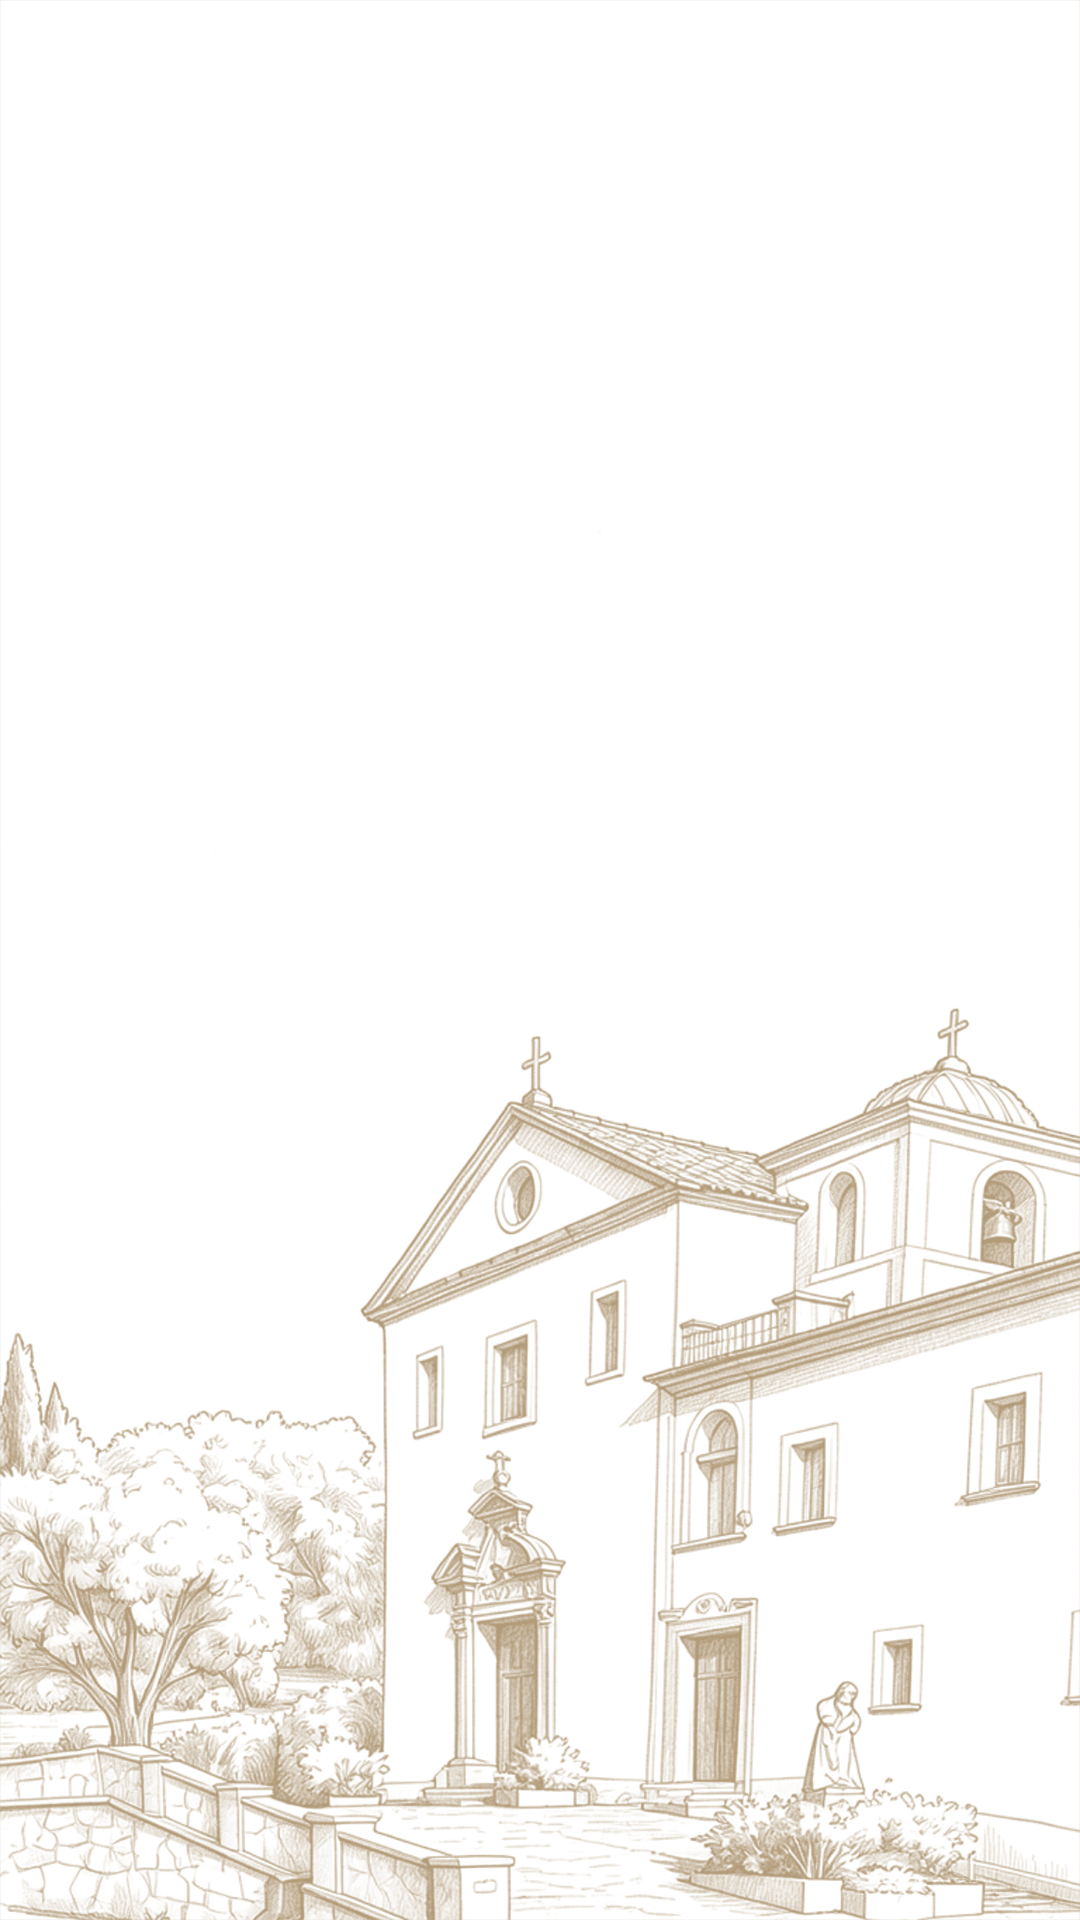
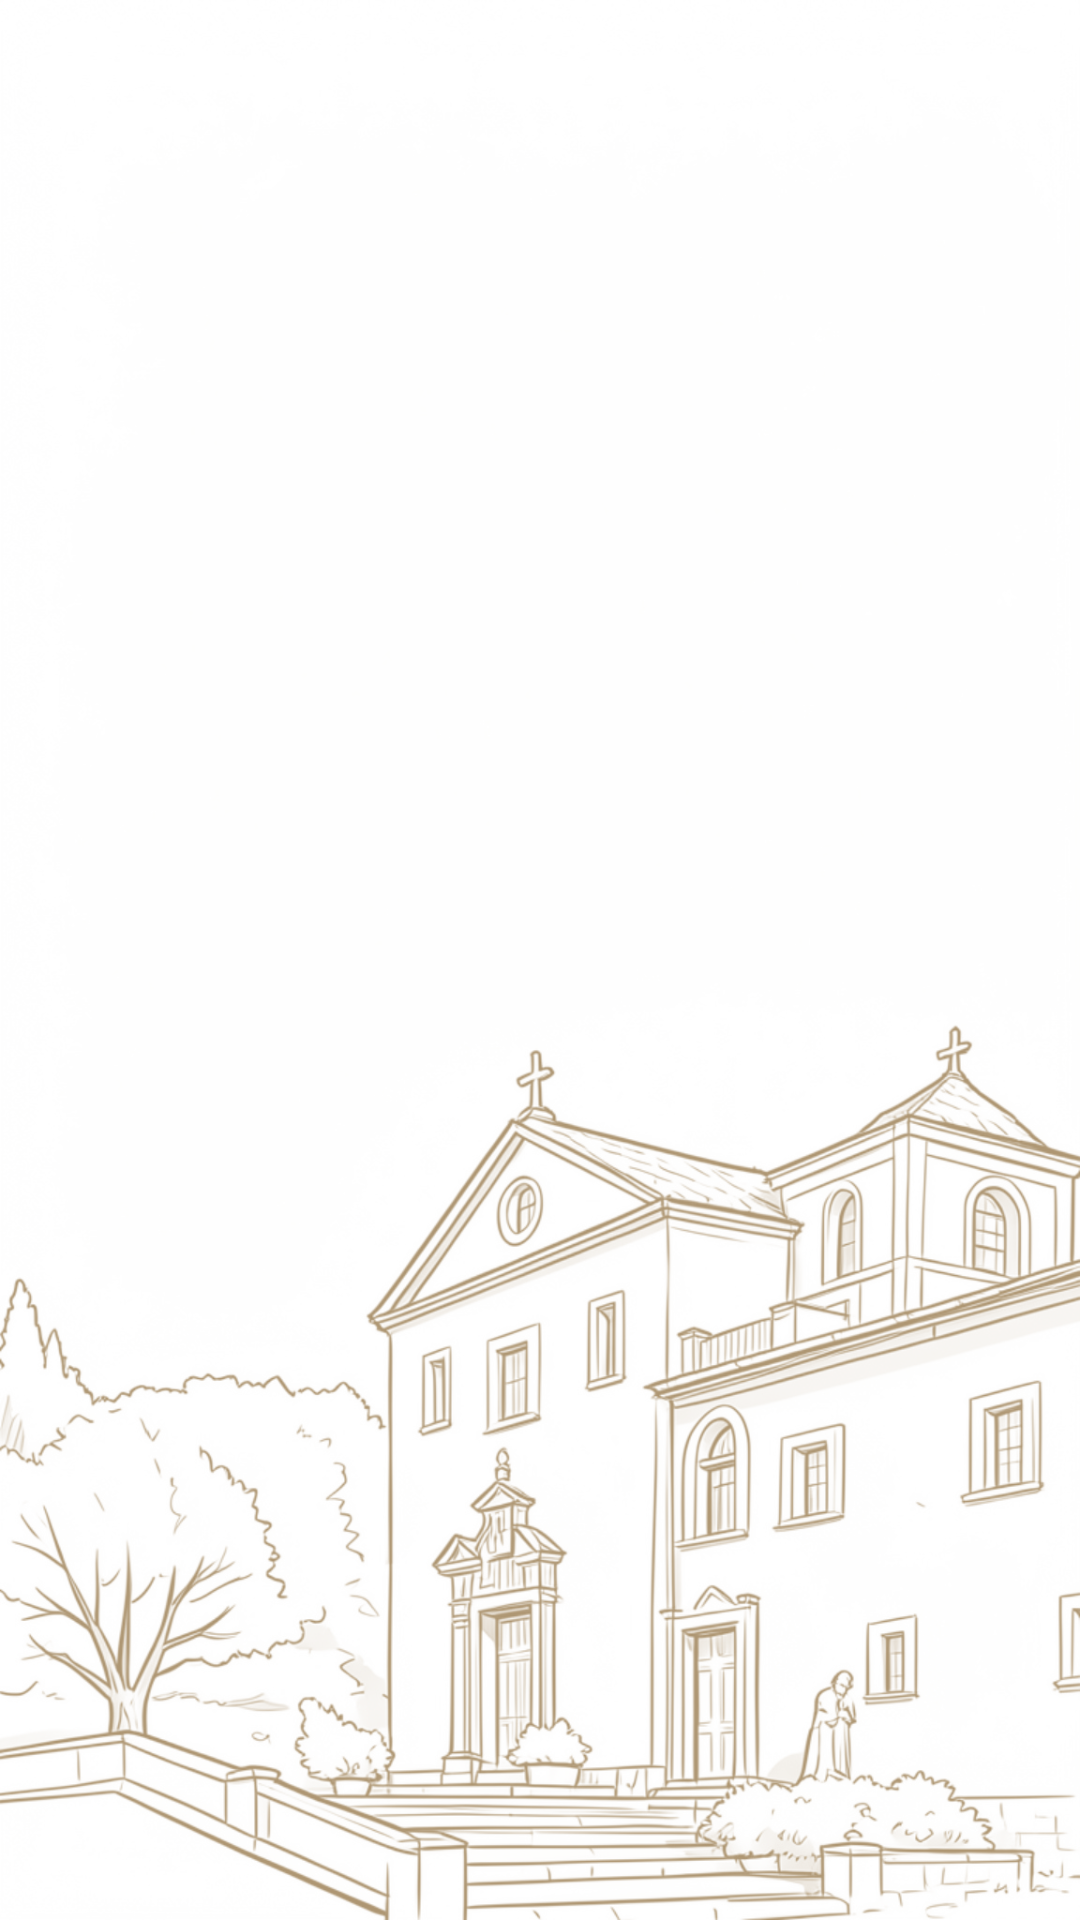
Modificata immagine cerimonia

Changed region(s): [[0.0, 0.5312, 1.0, 1.0], [0.9778, 0.8125, 1.0, 0.9062]]

diff --git a/scripts/animation.js b/scripts/animation.js
@@ -148,6 +148,20 @@ function avvolgiPennellate(img, posizione) {
     }
     maschera.appendChild(gruppo);
 
+    /* sigillo: velo bianco che si stende nell'ultima finestra della
+       pittura e chiude i micro-spiragli tra le passate (i bordi
+       ruvidi della turbolenza possono lasciare buchi attraverso cui
+       si vedrebbe ciò che sta sotto, es. la penombra dell'apertura) */
+    const sigillo = document.createElementNS(SVG_NS, "rect");
+    sigillo.setAttribute("class", "sigillo");
+    sigillo.setAttribute("x", String(Math.round(-w * 0.05)));
+    sigillo.setAttribute("y", String(Math.round(-h * 0.05)));
+    sigillo.setAttribute("width", String(Math.round(w * 1.1)));
+    sigillo.setAttribute("height", String(Math.round(h * 1.1)));
+    sigillo.setAttribute("fill", "#fff");
+    sigillo.style.setProperty("--s", (1 - finestra).toFixed(4));
+    maschera.appendChild(sigillo);
+
     const defs = document.createElementNS(SVG_NS, "defs");
     defs.append(filtro, maschera);
     svg.appendChild(defs);

diff --git a/styles/animation.css b/styles/animation.css
@@ -79,6 +79,13 @@ svg.pennellato mask path {
     stroke-dashoffset: clamp(0, calc((var(--s, 0) + var(--w, 1) - var(--p, 0)) / var(--w, 1)), 1);
 }
 
+/* Sigillo di copertura: si stende insieme all'ultima passata e
+   chiude i micro-spiragli lasciati dai bordi ruvidi delle
+   pennellate — a pittura completa la copertura è totale */
+svg.pennellato mask rect.sigillo {
+    opacity: clamp(0, calc((var(--p, 0) - var(--s, 0)) / var(--w, 1)), 1);
+}
+
 /* Ripiego: se l'immagine non era pronta resta un <img>,
    che compare in dissolvenza pilotata dalla stessa --p */
 img.tratti,
@@ -202,6 +209,11 @@ img.disegno {
 
 #anta-sinistra { transform-origin: left center; }
 #anta-destra   { transform-origin: right center; }
+
+/* L'anta sinistra sconfina di 1px oltre il centro, sotto la destra:
+   durante la rotazione 3D l'arrotondamento subpixel aprirebbe una
+   fessura sulla giunzione, da cui traspare la penombra */
+#anta-sinistra { right: calc(50% - 1px); }
 
 /* gli svg delle pennellate riempiono l'anta come le vecchie img */
 #home svg.pennellato {